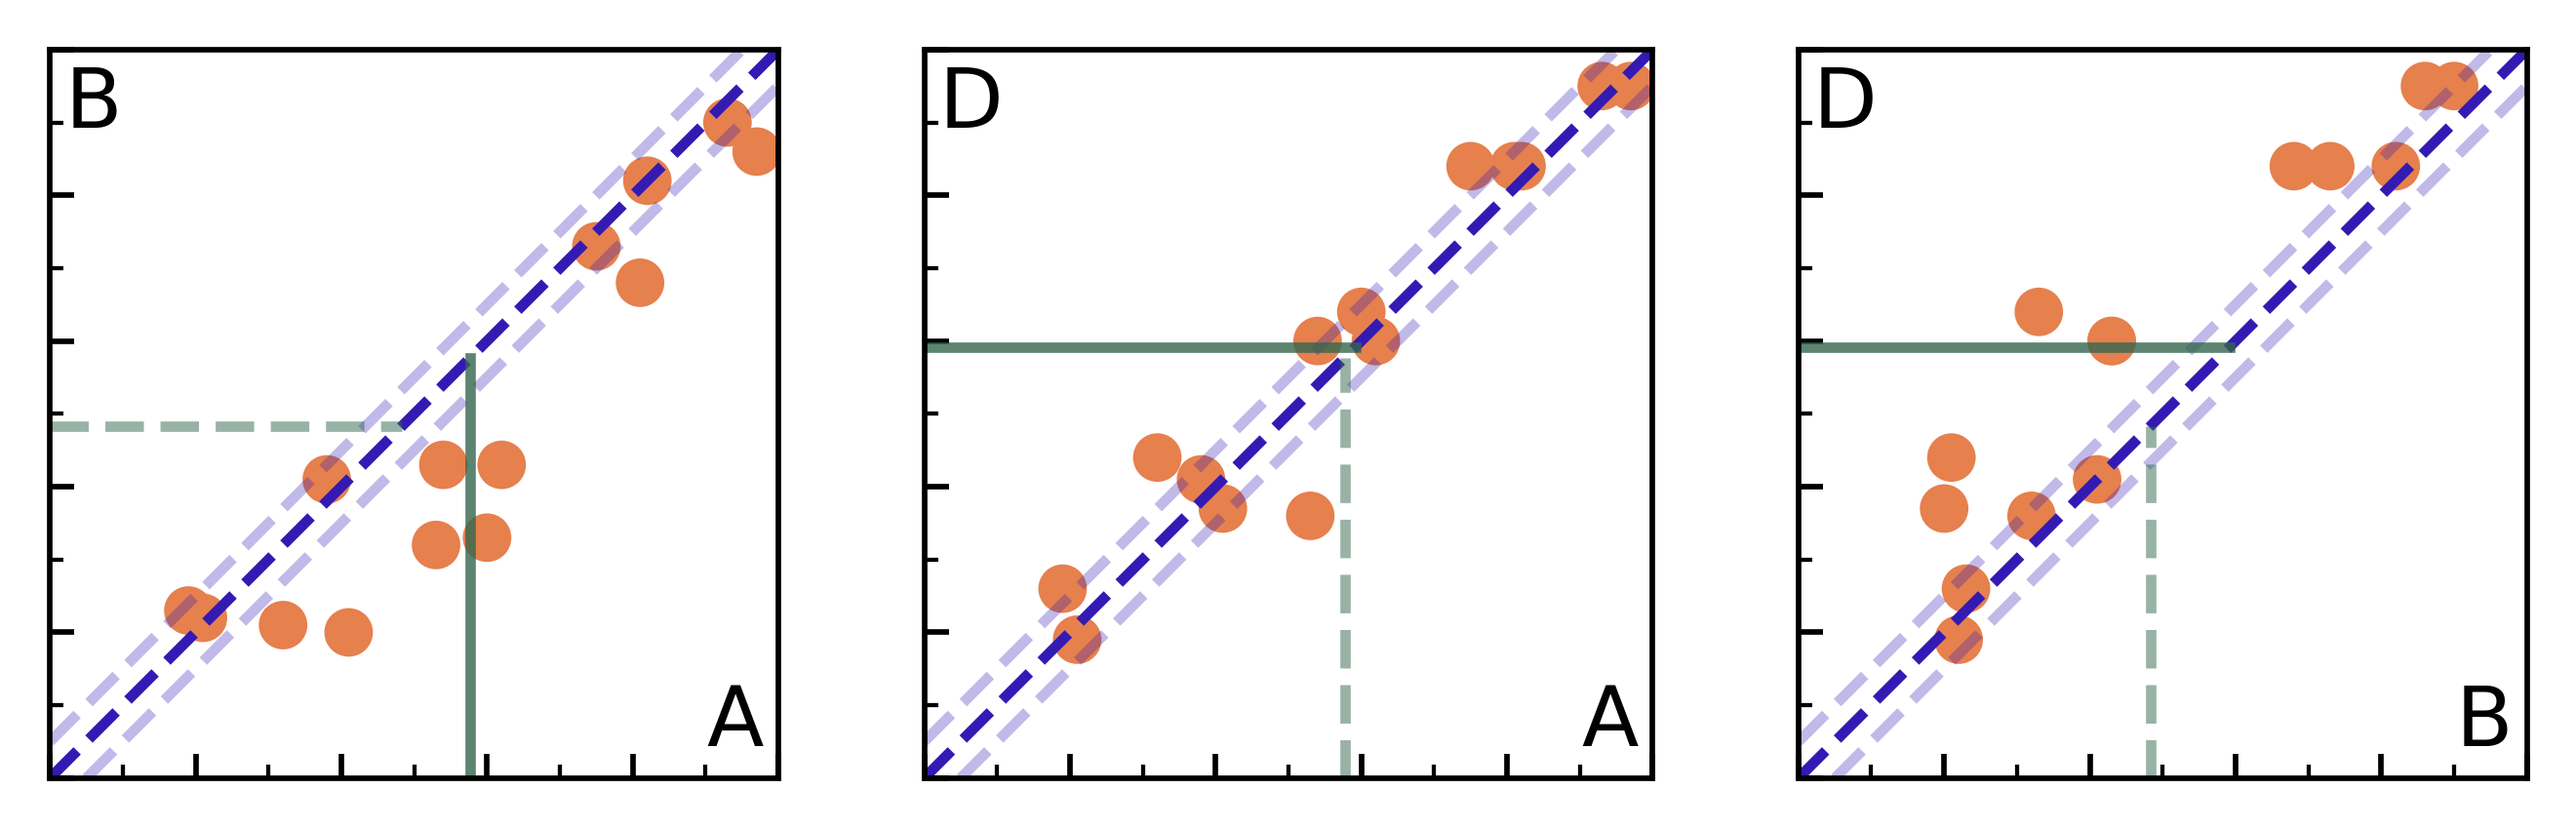
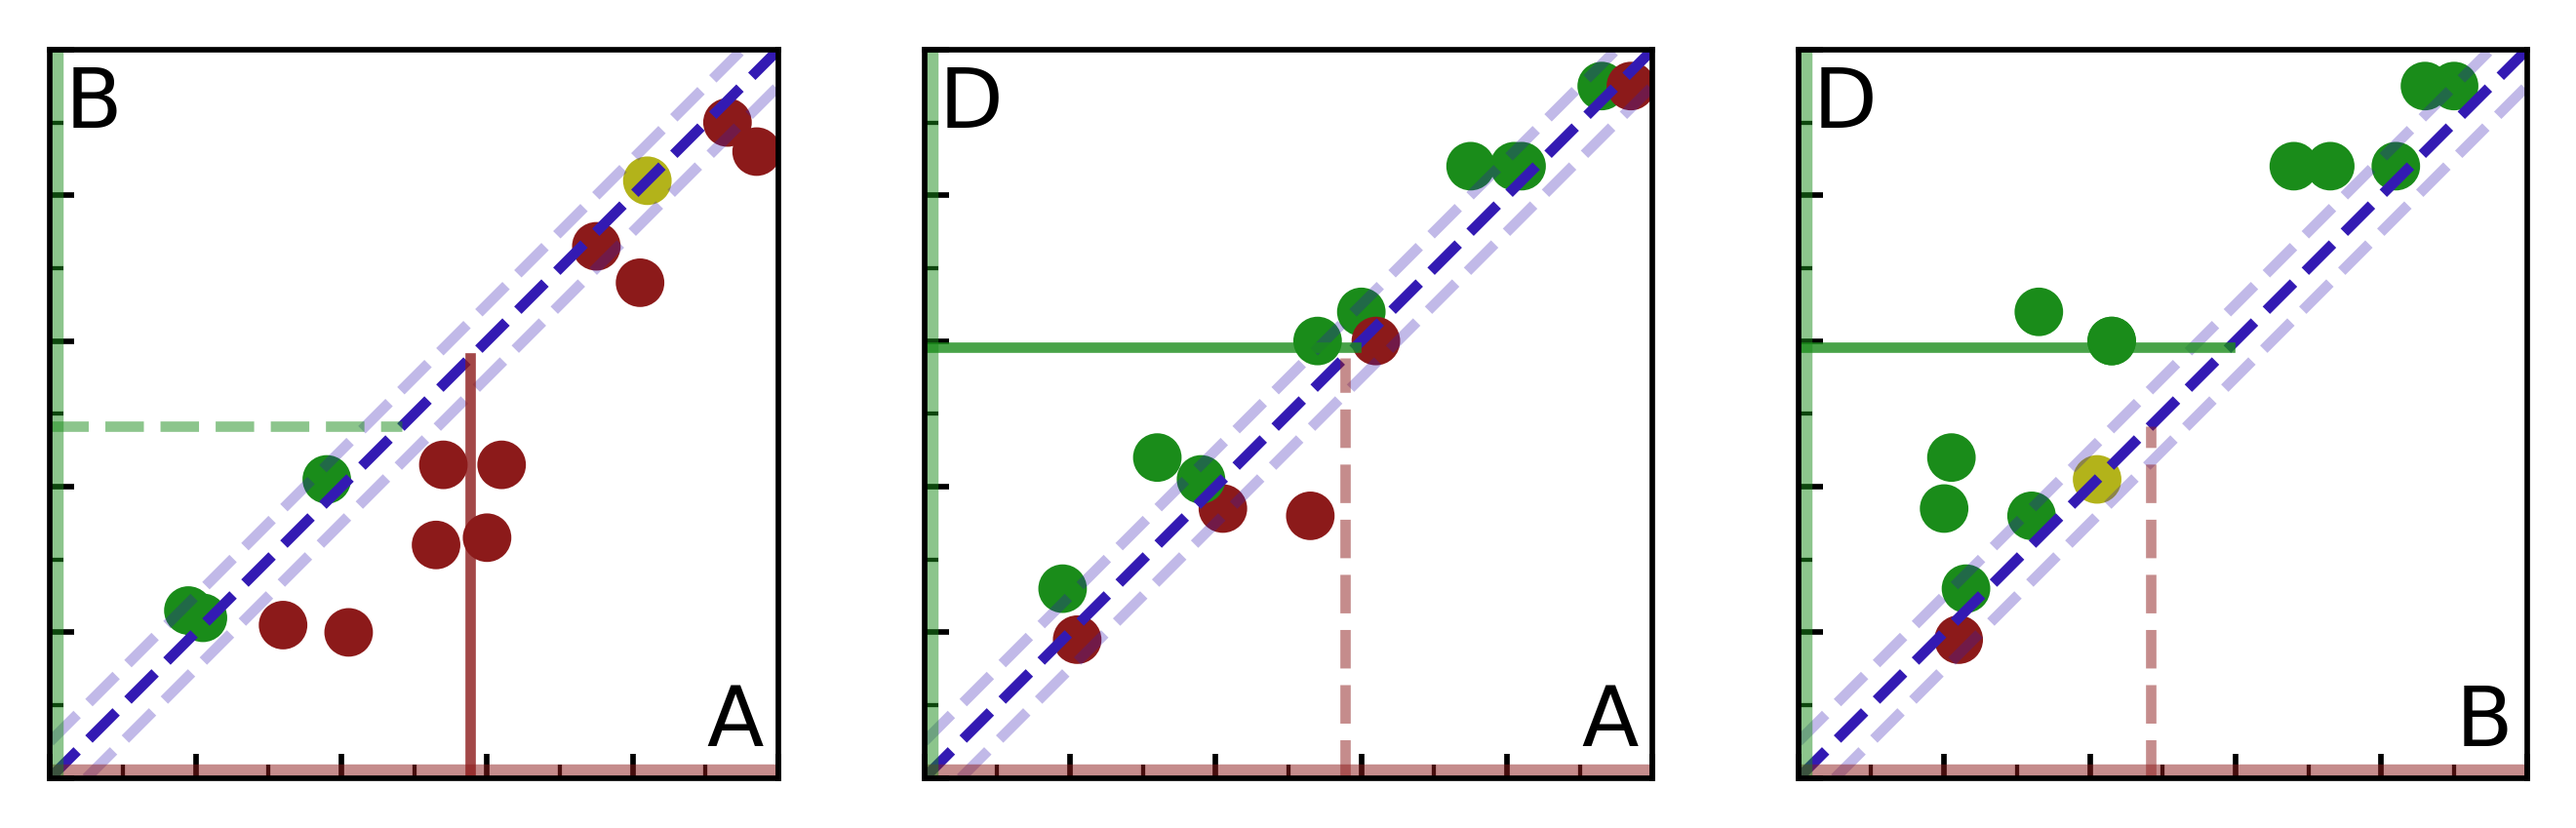
different colors for points in scatter plot

diff --git a/classically/scatter.py b/classically/scatter.py
@@ -28,14 +28,18 @@ def _scattercomp(
     data: np.ndarray,
     axis: Axes,
     labels: tuple[str, str],
-    color: tuple[float, float, float],
-    color_ml: tuple[float, float, float],
+    color_points: tuple[
+        tuple[float, float, float], tuple[float, float, float]
+    ],
+    color_default: tuple[float, float, float],
     color_dl: tuple[float, float, float],
     opacity: Optional[np.ndarray] = None,
 ) -> None:
-    n_datasets = data[0].shape[0]
+    n_datasets = data.shape[1]
     colors = np.zeros((n_datasets, 4))
-    colors[:, :3] = color
+    colors[data[0] > data[1], :3] = color_points[0]
+    colors[data[0] < data[1], :3] = color_points[1]
+    colors[data[0] == data[1], :3] = color_default
     colors[:, 3] = opacity if opacity is not None else 1.0
 
     # draw scatterplot
@@ -65,15 +69,29 @@ def _scattercomp(
         mean2,
         xmin=0,
         xmax=mean2,
-        color=color_ml+(opacity2, ),
+        color=color_points[1]+(opacity2, ),
         ls=ls2,
     )
     axis.axvline(
         mean1,
         ymin=0,
         ymax=mean1,
-        color=color_ml+(opacity1, ),
+        color=color_points[0]+(opacity1, ),
         ls=ls1,
+    )
+    axis.axhline(
+        0,
+        xmin=0,
+        xmax=1,
+        color=color_points[0]+(0.5, ),
+        lw=4,
+    )
+    axis.axvline(
+        0,
+        ymin=0,
+        ymax=1,
+        color=color_points[1]+(0.5, ),
+        lw=4,
     )
     axis.text(0.02, 0.98, s=labels[1], size="large", ha="left", va="top")
     axis.text(0.98, 0.02, s=labels[0], size="large", ha="right", va="bottom")
@@ -87,8 +105,10 @@ def scatter_comparison(
     axes: None = ...,
     max_cols: int = ...,
     draw_hist: bool = ...,
-    color: Optional[tuple[float, float, float]] = ...,
-    color_ml: Optional[tuple[float, float, float]] = ...,
+    color_points: Optional[
+        tuple[tuple[float, float, float], tuple[float, float, float]]
+    ] = ...,
+    color_hist: Optional[tuple[float, float, float]] = ...,
     color_dl: Optional[tuple[float, float, float]] = ...,
 ) -> tuple[Figure, Axes]:
     ...
@@ -102,8 +122,10 @@ def scatter_comparison(
     axes: Union[Axes, np.ndarray] = ...,
     max_cols: int = ...,
     draw_hist: bool = ...,
-    color: Optional[tuple[float, float, float]] = ...,
-    color_ml: Optional[tuple[float, float, float]] = ...,
+    color_points: Optional[
+        tuple[tuple[float, float, float], tuple[float, float, float]]
+    ] = ...,
+    color_hist: Optional[tuple[float, float, float]] = ...,
     color_dl: Optional[tuple[float, float, float]] = ...,
 ) -> None:
     ...
@@ -116,8 +138,10 @@ def scatter_comparison(
     axes: Optional[Union[Axes, np.ndarray]] = None,
     max_cols: int = 4,
     draw_hist: bool = False,
-    color: Optional[tuple[float, float, float]] = None,
-    color_ml: Optional[tuple[float, float, float]] = None,
+    color_points: Optional[
+        tuple[tuple[float, float, float], tuple[float, float, float]]
+    ] = None,
+    color_hist: Optional[tuple[float, float, float]] = None,
     color_dl: Optional[tuple[float, float, float]] = None,
 ) -> Optional[tuple[Figure, Union[Axes, np.ndarray]]]:
     """Creates scatterplots comparing the data of different categories.
@@ -145,12 +169,15 @@ def scatter_comparison(
             starting a new row of scatterplots. Defaults to 4.
         draw_hist (bool, optional): If True, also draws a histogram
             for each category. Defaults to False.
-        color (tuple[float, float, float], optional): Color of points in
-            the scatterplots.
-        color_dl (tuple[float, float, float], optional): Color of the
-            diagonal lines.
-        color_ml (tuple[float, float, float], optional): Color of the
-            lines for the mean values on each axis.
+        color_points (two 3-tuples of floats, optional): Colors of
+            points in the scatterplots. The first color is used for
+            points below the diagonal line, the second for points above.
+            Points exactly on the diagonal use `color_hist`. The colors
+            are also used for the lines marking the mean values.
+        color_hist (3-tuple of floats, optional): Color of the bars in
+            histograms.
+        color_dl (3-tuple of floats, optional): Color of the diagonal
+            lines.
 
     Returns:
         Pyplot figure and axes containing all plots or None if ``axes``
@@ -168,7 +195,10 @@ def scatter_comparison(
         raise ValueError(f"length of 'labels' ({len(labels)}) does not match"
                          f" data shape; should be {n_classifiers}")
 
-    color = color if color is not None else (0.9, 0.5, 0.3)
+    color_hist = color_hist if color_hist is not None else (0.7, 0.7, 0.1)
+    color_points = color_points if color_points is not None else (
+        (0.55, 0.1, 0.1), (0.1, 0.55, 0.1)
+    )
     labels = labels if labels is not None else (
         [f"{i+1}" for i in range(n_classifiers)]
     )
@@ -176,14 +206,13 @@ def scatter_comparison(
         if axes is not None:
             if not isinstance(axes, Axes):
                 raise ValueError(f"Expected a single axes, got {type(axes)}")
-            return _hist(data, axis=axes, label=labels[0], color=color)
+            return _hist(data, axis=axes, label=labels[0], color=color_hist)
         else:
             fig, axs = plt.subplots(1, 1)
-            _hist(data, axis=axs, label=labels[0], color=color)
+            _hist(data, axis=axs, label=labels[0], color=color_hist)
             return fig, axs
 
     color_dl = color_dl if color_dl is not None else (0.2, 0.1, 0.7)
-    color_ml = color_ml if color_ml is not None else (0.2, 0.4, 0.3)
     if axes is None:
         cols = n_plots = int(n_classifiers * (n_classifiers-1) / 2)
         if draw_hist:
@@ -240,7 +269,7 @@ def scatter_comparison(
                 data[ii],
                 axis=axs[i, j],
                 label=labels[ii],
-                color=color,
+                color=color_hist,
             )
         else:
             _scattercomp(
@@ -248,9 +277,9 @@ def scatter_comparison(
                 axis=axs[i, j],
                 opacity=opacity,
                 labels=(labels[ii], labels[jj]),
-                color=color,
+                color_points=color_points,
+                color_default=color_hist,
                 color_dl=color_dl,
-                color_ml=color_ml,
             )
         j += 1
     while j < axs.shape[1]:
